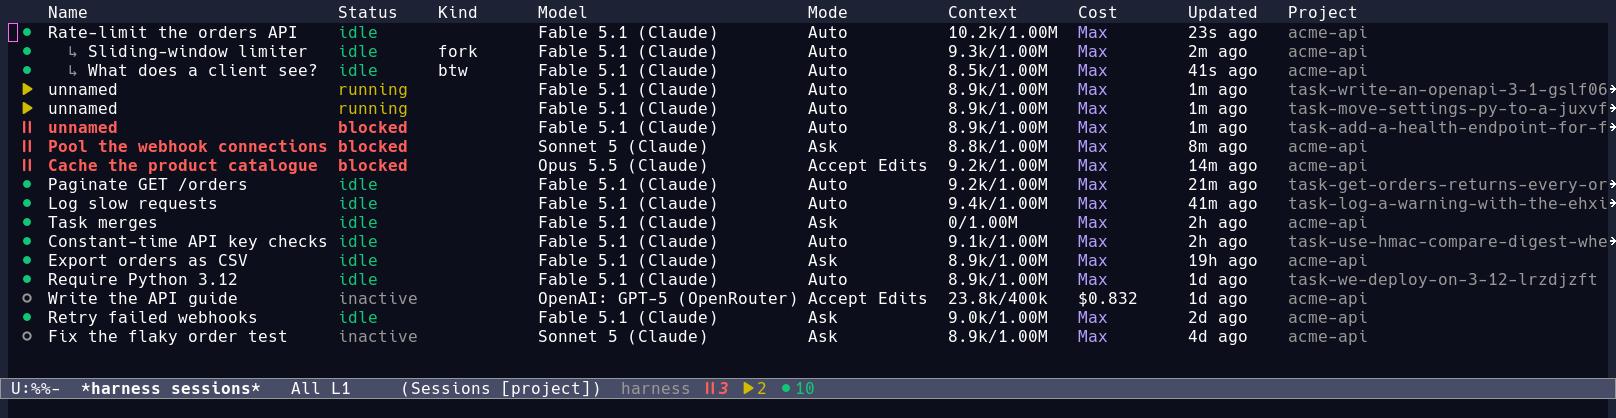
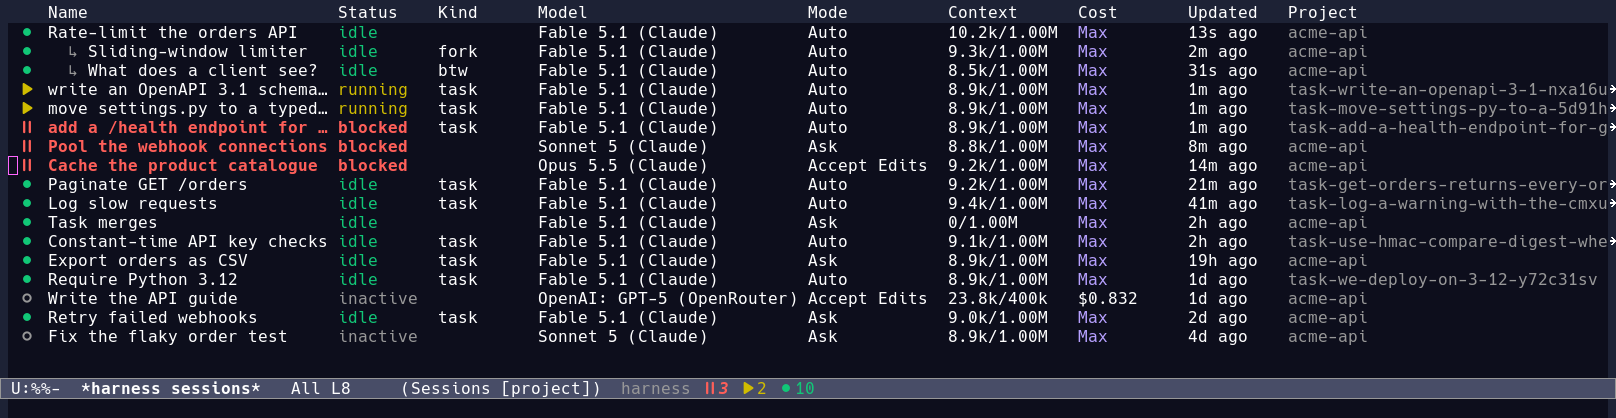
Session list: show a task's session by its task's title, of kind task
A task's session is named only after its first turn, and a task does all
of its work in that turn, so every task at work read as a dim "unnamed"
row with no kind in C-c h l.  The list now asks the harness for the
tasks (_harness/task/list, every project) when it opens, on `g' and
after a reload or reconnect, keeps them by session and follows
task/changed and task/deleted: a task's session shows its task's title,
as on the board, until the model names it, and is of kind task.  The
filter matches what a row shows, so / task finds them too.

The board and the list share harness-ui-task-title, so the two cannot
drift.  A harness without tasks answers the request with an error and
the list is as it was.

Tests: 4 in harness-ui-sessions-test.el (title and kind, a name wins
over the title, task events, fetch on reload and failure, filter) and
one for the shared helper; the old code fails them.  Retake the session
list screenshot, whose task rows read "unnamed" before.

diff --git a/docs/ui-guide.md b/docs/ui-guide.md
@@ -37,7 +37,7 @@ Display
 - `(harness-ui-display-session ID &optional POSITION)` and `(harness-ui-display-buffer BUFFER POSITION)`; positions `right`, `left`, `bottom`, `full`, `other`; one session per position.  The chat module sets `harness-ui-open-session-function`.
 - Faces: `harness-user-face`, `harness-agent-face`, `harness-tool-face`, `harness-tool-error-face` (the call ran and failed), `harness-tool-denied-face` (the permission system refused it), `harness-tool-title-face`, `harness-tool-subject-face`, `harness-thinking-face`, `harness-hint-face`, `harness-summary-face`, `harness-dim-face`, `harness-label-face`, `harness-status-*-face`, `harness-context-*-face`, `harness-queue-face`, `harness-compose-face`.
 - Icons: `(harness-ui-icon 'harness-icon-running)` etc.; `(harness-ui-status-icon STATUS)`.  Define new ones with `(harness-ui-define-icon NAME FILE SYMBOL TEXT DOC)`: FILE names a monochrome SVG in `icons/` drawn in `currentColor` (so it takes the surrounding face's colour), SYMBOL is the terminal fallback.  Never use emoji, and avoid codepoints with an emoji presentation (▶ ⏸ ⚙ ℹ ⚠ ▪) as symbols.
-- Helpers: `(harness-ui-tool-outcome RESULT)` (`denied`, `failed` or `ok` for a tool-result node; tell a refusal from a failure through it, never `:is-error` alone), `harness-ui-format-context`, `harness-ui-model-label`, `harness-ui-button`, `harness-ui-mouse-keymap`, `harness-format-tokens`, `harness-format-cost`, `harness-relative-time`, `harness-truncate-middle`.
+- Helpers: `(harness-ui-tool-outcome RESULT)` (`denied`, `failed` or `ok` for a tool-result node; tell a refusal from a failure through it, never `:is-error` alone), `harness-ui-format-context`, `harness-ui-model-label`, `(harness-ui-task-title TASK &optional SESSION)` (what a task is called: its session's name once it has one, else its prompt's first line — a session is named after its first turn, so a task at work has none yet), `harness-ui-button`, `harness-ui-mouse-keymap`, `harness-format-tokens`, `harness-format-cost`, `harness-relative-time`, `harness-truncate-middle`.
 - Tools: name a tool by its label, the name people read ("Read file"), never by the name the model calls it by (`read_file`).  `(harness-ui-fetch-tools)` returns a promise of the table of every tool's spec (`tools/list` without a session, cached per connection; wait for it before the first render, as the chat and the tree do), then `(harness-ui-tool-label NAME)` gives the label, `(harness-ui-tool-title NAME TITLE)` a call's title as people read it ("Read file: x.el", also for titles recorded before tools had labels), and `(harness-ui-tool-title-string NAME TITLE &optional MAX)` the same for a header, the label in `harness-tool-title-face` and the rest in `harness-tool-subject-face`.
 - Markdown: `(harness-ui-markdown-render TEXT)` → propertized string (`harness-ui-markdown.el`).
 - Keys: add commands to `harness-ui-map` (prefix `C-c h`, `harness-ui-prefix-key`) and entries to the `harness-menu` transient (append with `transient-append-suffix`).

diff --git a/docs/architecture.md b/docs/architecture.md
@@ -1724,7 +1724,11 @@ The UI keeps each provider's QUOTA from `provider/quota` and
 Other buffers: settings page (`harness-ui-config`, above), sessions list (`tabulated-list-mode`, tree indentation for
 children, filter/sort by any column; scoped to the current project, its
 git worktrees and so its tasks' sessions included, each session's root
-resolved to its main checkout once with `harness-files-main-checkout`),
+resolved to its main checkout once with `harness-files-main-checkout`;
+a task's session is of kind task and goes by its task's title, as on the
+board, until the model names it after its first turn — the list loads
+the tasks with `_harness/task/list` and follows `task/changed' and
+`task/deleted'),
 conversation tree (`harness-ui-tree`), usage dashboard (`harness-ui-usage`,
 svg charts via svg.el), worktrees (`harness-ui-worktree`), notifier
 (`harness-ui-notify`: global mode-line segment with blocked/running/idle

diff --git a/README.md b/README.md
@@ -295,6 +295,8 @@ so several tasks can work in parallel.
   BTW conversation about the tasks.
 - `RET` opens the session of the task at point. From that session,
   `C-c h a` leads back to the board.
+- A task's session shows in the session list (`C-c h l`) under the
+  task's title, of kind task, until the model names it.
 
 Press `?` on the board, or `C-c h ?` in its compose box, to see all of
 the board's commands.
